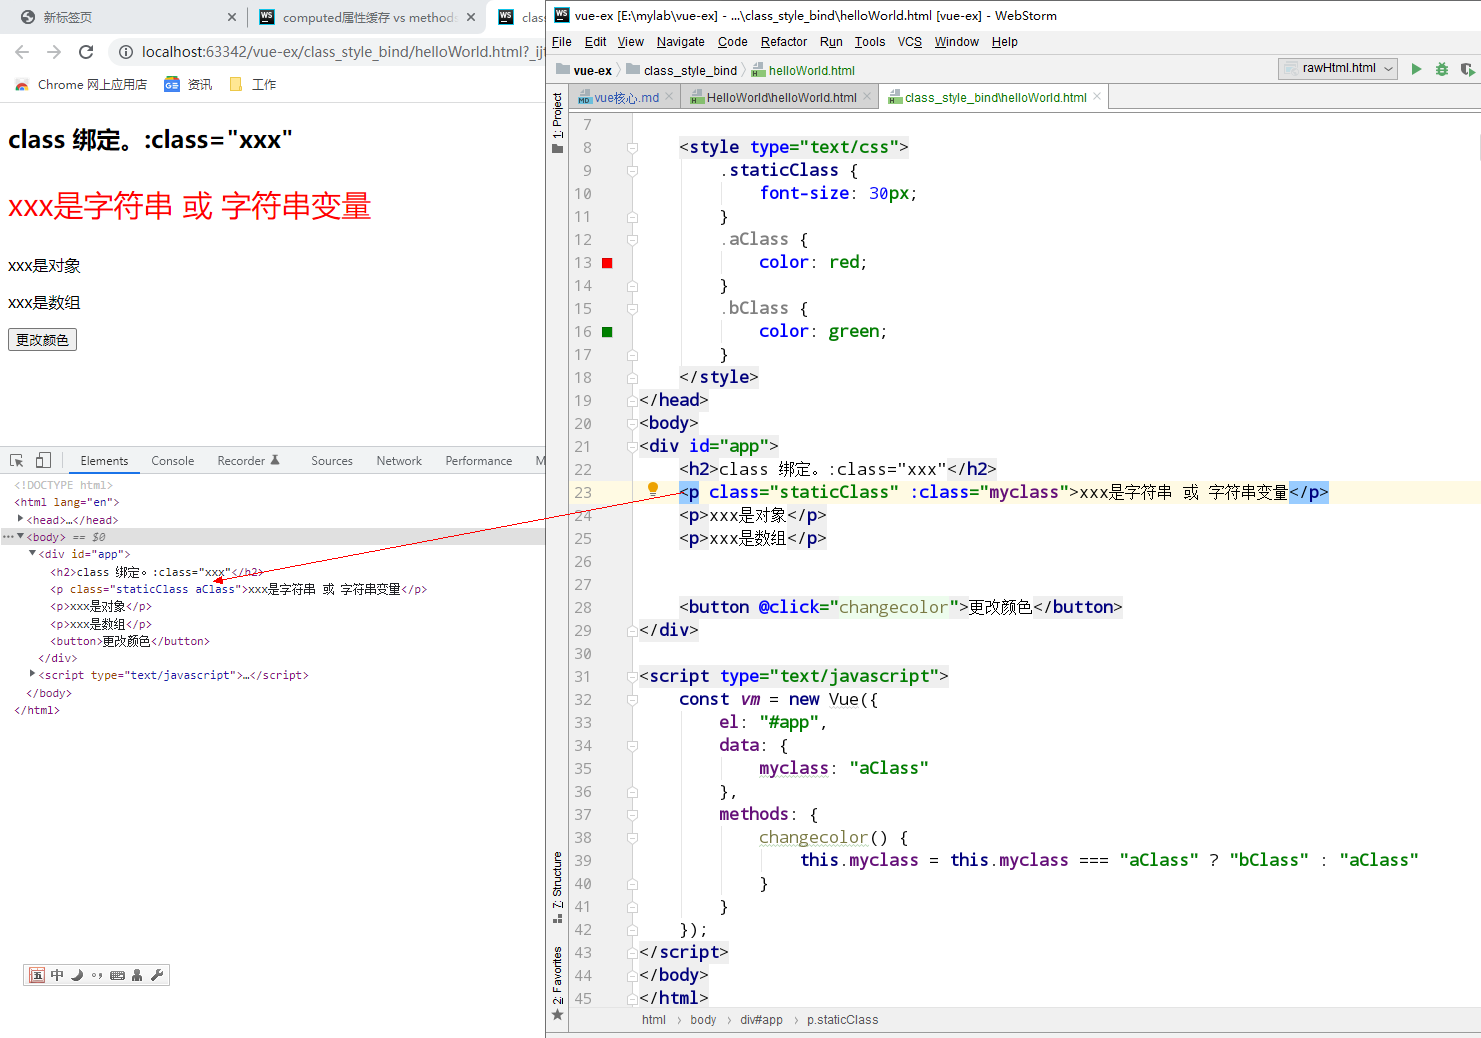
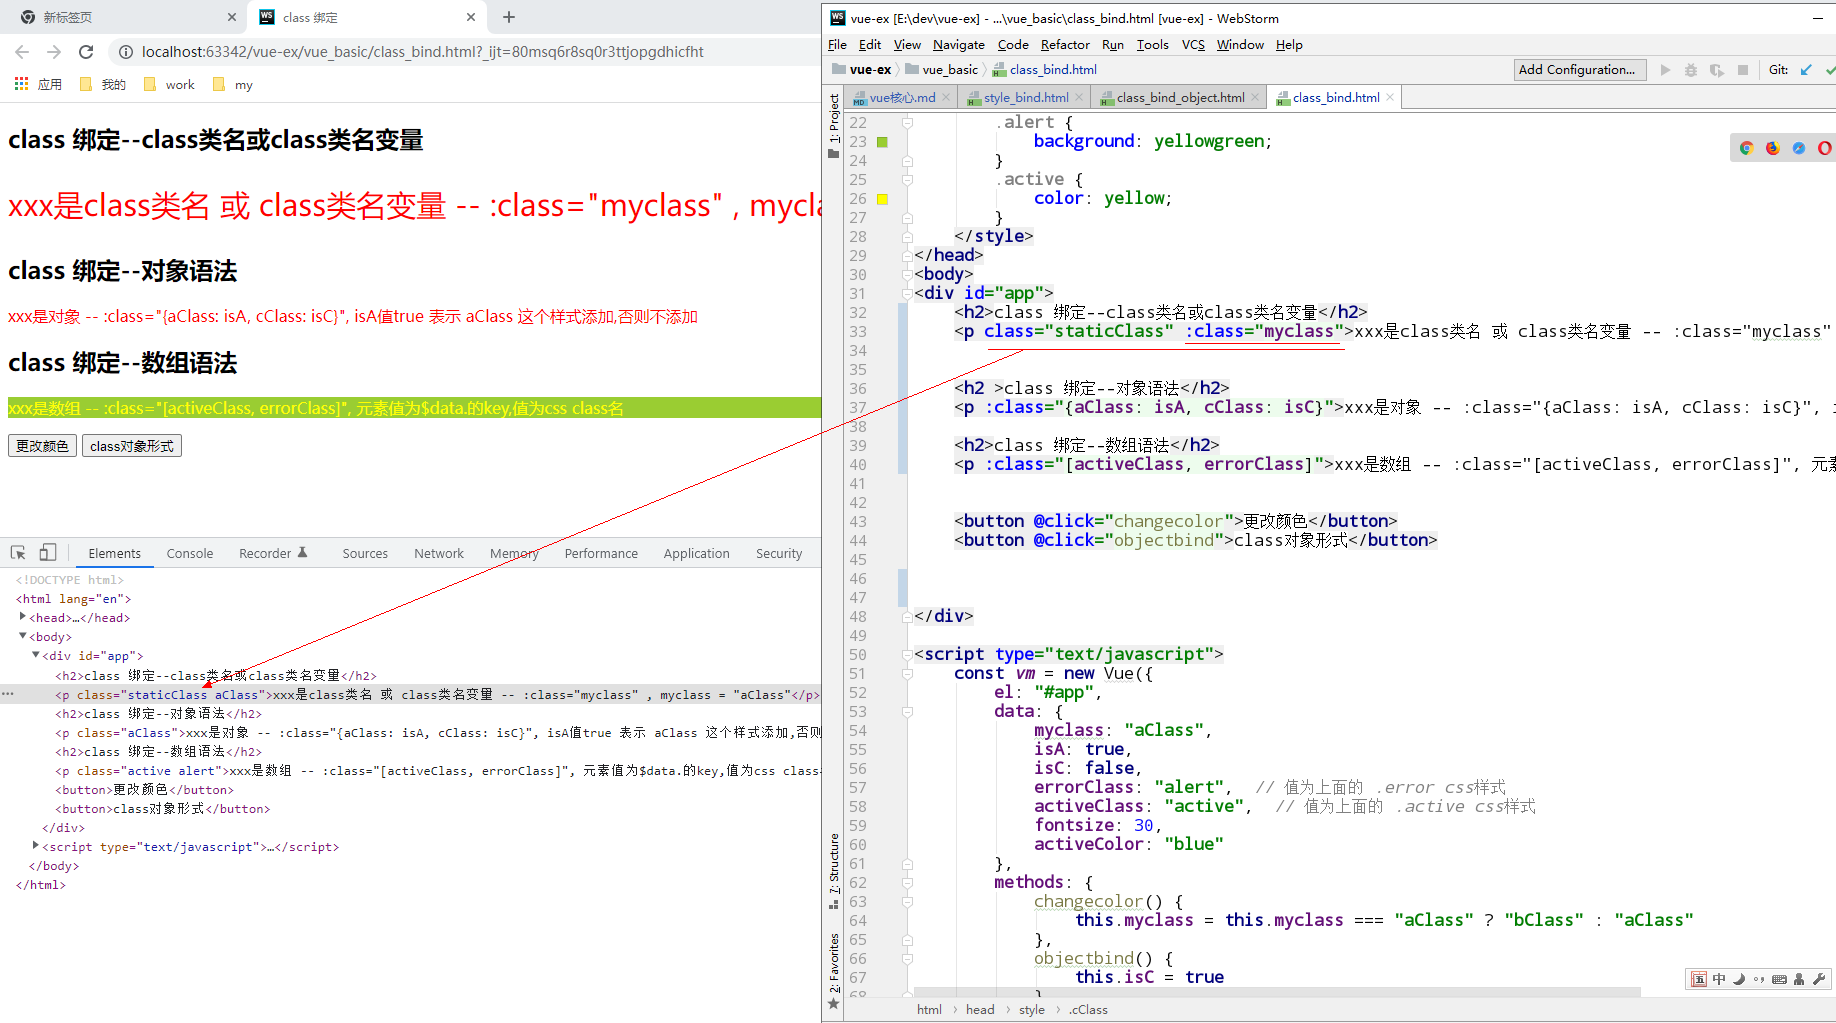
完善 class、style 绑定

diff --git a/vue_basic/style_bind.html b/vue_basic/style_bind.html
@@ -1,0 +1,52 @@
+<!DOCTYPE html>
+<html lang="en">
+<head>
+    <meta charset="UTF-8">
+    <title>style 绑定</title>
+    <script src="../static/js/vue.js"></script>
+
+    <style type="text/css">
+        .staticClass {
+            font-size: 30px;
+        }
+        .active {
+            color: green;
+        }
+        .text-danger {
+            color: red;
+        }
+    </style>
+</head>
+<body>
+<div id="app">
+    <h2>style 绑定--对象语法(js对象)</h2>
+    <div :style="{color: activeColor, fontSize: fontsize + 'px'}">style 绑定内联样式-- :style="{color: activeColor, fontSize: fontsize + 'px'}"</div>
+
+    <h2>style 绑定--对象语法(css对象变量)</h2>
+    <p :style="styleObject">style 绑定(计算属性返回的一个css样式对象)-- :style="styleObject"</p>
+
+    <h2>style 绑定--数组语法</h2>
+    <div :style="[baseStyles, overridingStyles]">sytle绑定(数组语法)-- :style="[baseStyles, overridingStyles]</div>
+</div>
+
+<script type="text/javascript">
+    const vm = new Vue({
+        el: "#app",
+        data: {
+            isActive: true,
+            error: null,
+            baseStyles: {color: "#112233"},
+            overridingStyles: {background: "#bfa"}
+        },
+        computed: {
+            styleObject() {
+                return {
+                    color: "red",
+                    fontSize: "18px"
+                }
+            }
+        }
+    });
+</script>
+</body>
+</html>

diff --git a/vue_basic/class_bind.html b/vue_basic/class_bind.html
@@ -2,7 +2,7 @@
 <html lang="en">
 <head>
     <meta charset="UTF-8">
-    <title>class 与 style 绑定</title>
+    <title>class 绑定</title>
     <script src="../static/js/vue.js"></script>
 
     <style type="text/css">
@@ -29,17 +29,22 @@
 </head>
 <body>
 <div id="app">
-    <h2>class 绑定。:class="xxx"</h2>
-    <p class="staticClass" :class="myclass">xxx是字符串 或 字符串变量</p>
-    <p :class="{aClass: isA, cClass: isC}">xxx是对象</p>
-    <p :class="[activeClass, errorClass]">xxx是数组</p>
+    <h2>class 绑定--class类名或class类名变量</h2>
+    <p class="staticClass" :class="myclass">xxx是class类名 或 class类名变量 -- :class="myclass" , myclass = "aClass"</p>
+
+
+    <h2 >class 绑定--对象语法</h2>
+    <p :class="{aClass: isA, cClass: isC}">xxx是对象 -- :class="{aClass: isA, cClass: isC}", isA值true 表示 aClass 这个样式添加,否则不添加</p>
+
+    <h2>class 绑定--数组语法</h2>
+    <p :class="[activeClass, errorClass]">xxx是数组 -- :class="[activeClass, errorClass]", 元素值为$data.的key,值为css class名</p>
 
 
     <button @click="changecolor">更改颜色</button>
     <button @click="objectbind">class对象形式</button>
 
-    <h2>style 绑定</h2>
-    <div :style="{color: activeColor, fontSize: fontsize + 'px'}">style绑定内联样式</div>
+
+
 </div>
 
 <script type="text/javascript">

diff --git a/readme/vue核心.md b/readme/vue核心.md
@@ -470,14 +470,14 @@ const vm = new Vue({
 ```
 `:class` 是 `v-bind:class` 的简写
 
-xxx 是字符串或字符串变量  
+xxx 是class类名或class类名变量 
 xxx 是对象  
 xxx 是数组
 
-* 是字符串或字符串变量
+* 是class类名或class类名变量
     
     ```html
-    <p class="staticClass" :class="myclass">xxx是字符串 或 字符串变量</p>
+    <p class="staticClass" :class="myclass">xxx是class类名 或 class类名变量 -- :class="myclass" , myclass = "aClass"</p>
     ```
     ```js
         const vm = new Vue({
@@ -502,7 +502,7 @@ xxx 是数组
     
     渲染的结果为
     ```html
-    <p class="staticClass aClass">xxx是字符串 或 字符串变量</p>
+    <p class="staticClass aClass">xxx是class类名 或 class类名变量 -- :class="myclass" , myclass = "aClass"</p>
     ```
     ![](../image/class绑定1.png)
     
@@ -558,14 +558,15 @@ xxx 是数组
 
     数组元素为 css 样式名
     ```html
-    <p :class="[activeClass, errorClass]">xxx是数组</p>
+    <p :class="[activeClass, errorClass]">xxx是数组 -- :class="[activeClass, errorClass]", 元素值为$data.的key,值为css class名</p>
     ```
     
     渲染的结果为
     ```html
-    <p class="active alert">xxx是数组</p>
+    <p class="active alert">xxx是数组...</p>
     ```
     ![](../image/class绑定3.png)
+    
 
 ### style绑定
 `:style` 的对象语法十分直观——看着非常像 CSS，但其实是一个 JavaScript 对象。
@@ -576,7 +577,7 @@ xxx 是数组
     <div :style="{color: activeColor, fontSize: fontsize + 'px'}">style绑定内联样式</div>
     ```
     
-    [class_style_bind](../vue_basic/class_style_bind.html)
+    [style_bind](../vue_basic/style_bind.html)
     
     html
     ```html
@@ -601,7 +602,7 @@ xxx 是数组
 
     * style 直接绑定到一个样式对象
         
-        [style_bind_object](../vue_basic/style_bind_object.html)
+        [style_bind](../vue_basic/style_bind.html)
         
         html
     
@@ -632,4 +633,24 @@ xxx 是数组
         ```
     
 * 数组语法
-
+    
+    html
+    ```html
+    <div :style="[baseStyles, overridingStyles]">sytle绑定(数组语法)...</div>
+    ```
+    
+    js
+    ```js
+     const vm = new Vue({
+             el: "#app",
+             data: {
+                 baseStyles: {color: "#112233"},
+                 overridingStyles: {background: "#bfa"}
+             },
+           })
+    ```
+    
+    渲染结果:
+    ```html
+    <div style="color: rgb(17, 34, 51); background: rgb(187, 255, 170);">sytle绑定(数组语法)...</div>
+    ```
